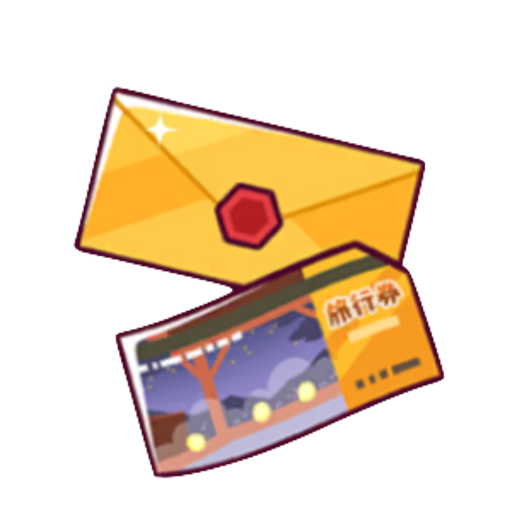
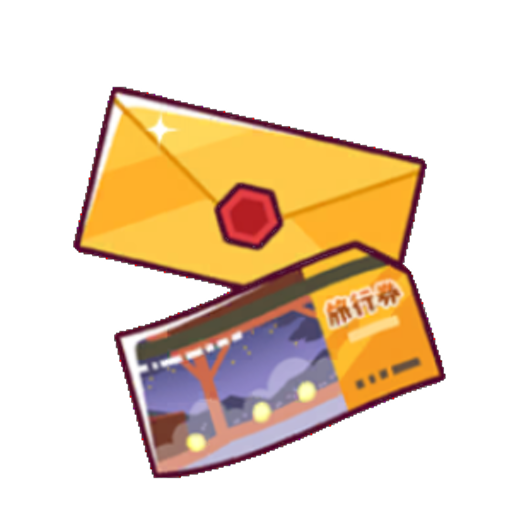
Remove black background from Hot Spring Getaway tile art
The ticket PNG had an opaque black canvas; clear it to transparency
and contain-fit the icon on the cell instead of covering with black.

diff --git a/property-training/src/components/Board.tsx b/property-training/src/components/Board.tsx
@@ -15,9 +15,13 @@ function tokensOn(spaceId: number, players: PlayerPublic[]) {
   return players.filter((p) => !p.bankrupt && p.position === spaceId);
 }
 
-function cellArt(space: BoardSpace): string | null {
-  if (space.kind === 'utility' && space.name === 'Cafeteria') return '/cafeteria.png';
-  if (space.id === 39 || space.name === 'Hot Spring Getaway') return '/hot-spring-getaway.png';
+function cellArt(space: BoardSpace): { src: string; fit: 'cover' | 'contain' } | null {
+  if (space.kind === 'utility' && space.name === 'Cafeteria') {
+    return { src: '/cafeteria.png', fit: 'cover' };
+  }
+  if (space.id === 39 || space.name === 'Hot Spring Getaway') {
+    return { src: '/hot-spring-getaway.png', fit: 'contain' };
+  }
   return null;
 }
 
@@ -38,7 +42,7 @@ function BoardCell({
 
   return (
     <div
-      className={`cell kind-${space.kind}${hasArt ? ' cell-has-art' : ''}`}
+      className={`cell kind-${space.kind}${hasArt ? ` cell-has-art cell-art-${art!.fit}` : ''}`}
       style={{ ['--group' as string]: space.color || 'transparent' }}
       title={
         space.price
@@ -46,7 +50,9 @@ function BoardCell({
           : space.name
       }
     >
-      {art ? <img className="cell-art" src={art} alt="" draggable={false} /> : null}
+      {art ? (
+        <img className={`cell-art cell-art--${art.fit}`} src={art.src} alt="" draggable={false} />
+      ) : null}
       {(space.kind === 'property' || space.kind === 'rail' || space.kind === 'utility') && !hasArt ? (
         <div className="cell-stripe" />
       ) : null}

diff --git a/property-training/src/App.css b/property-training/src/App.css
@@ -1129,8 +1129,19 @@ select:focus {
 }
 
 .cell-has-art {
-  background: #2a2420;
   padding: 0;
+}
+
+.cell-art-cover {
+  background: #2a2420;
+}
+
+.cell-art-contain {
+  background: var(--kind-plain);
+}
+
+.cell-art-contain .cell-stripe {
+  display: none;
 }
 
 .cell-art {
@@ -1138,10 +1149,20 @@ select:focus {
   inset: 0;
   width: 100%;
   height: 100%;
-  object-fit: cover;
   object-position: center;
   pointer-events: none;
   z-index: 0;
+}
+
+.cell-art--cover {
+  object-fit: cover;
+}
+
+.cell-art--contain {
+  object-fit: contain;
+  padding: 10% 6% 18%;
+  box-sizing: border-box;
+  filter: drop-shadow(0 1px 2px rgba(0, 0, 0, 0.25));
 }
 
 .cell-has-art .cell-name,
